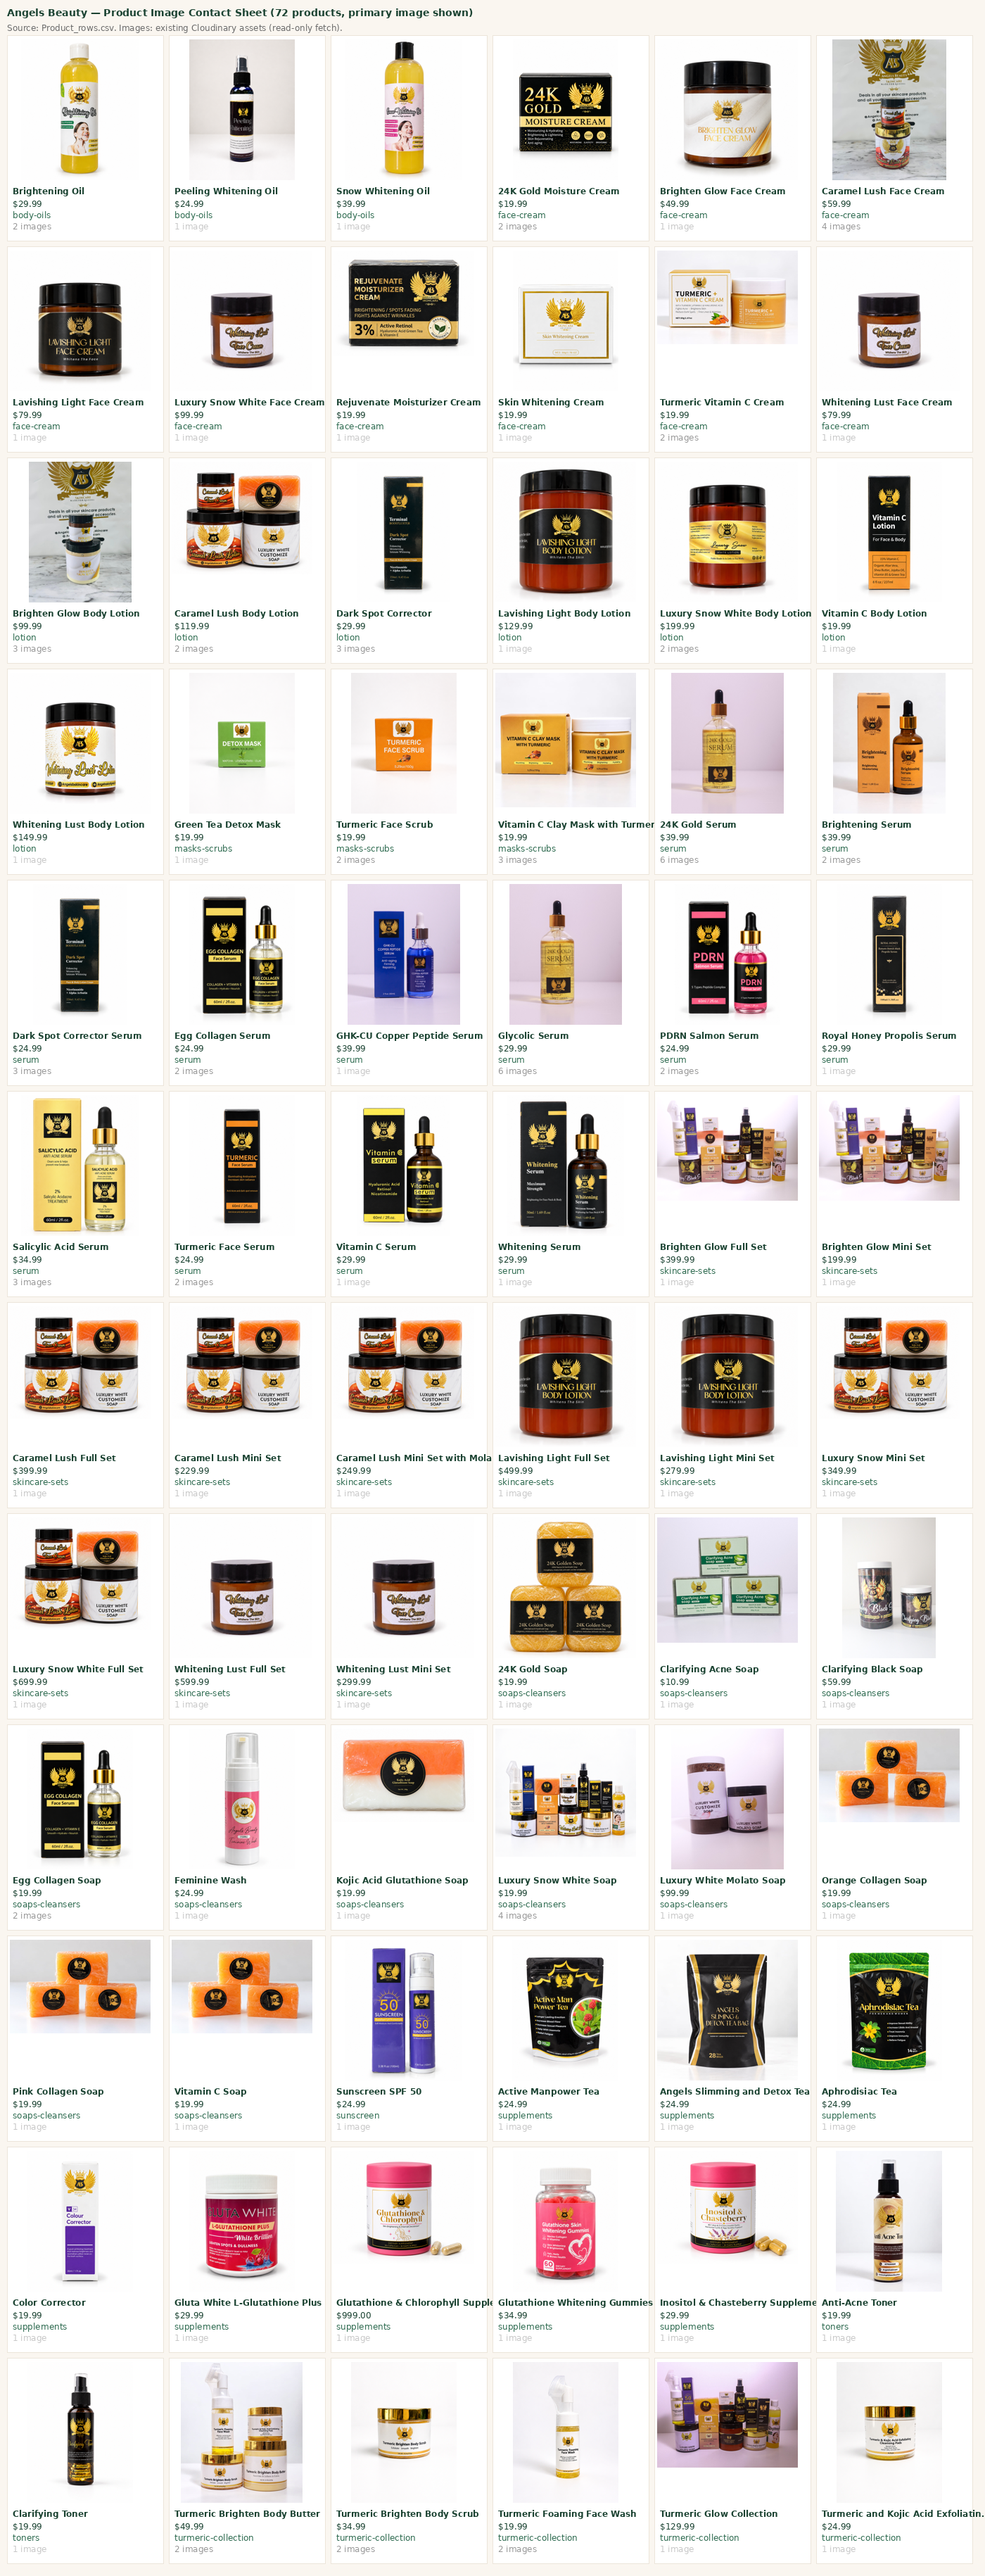
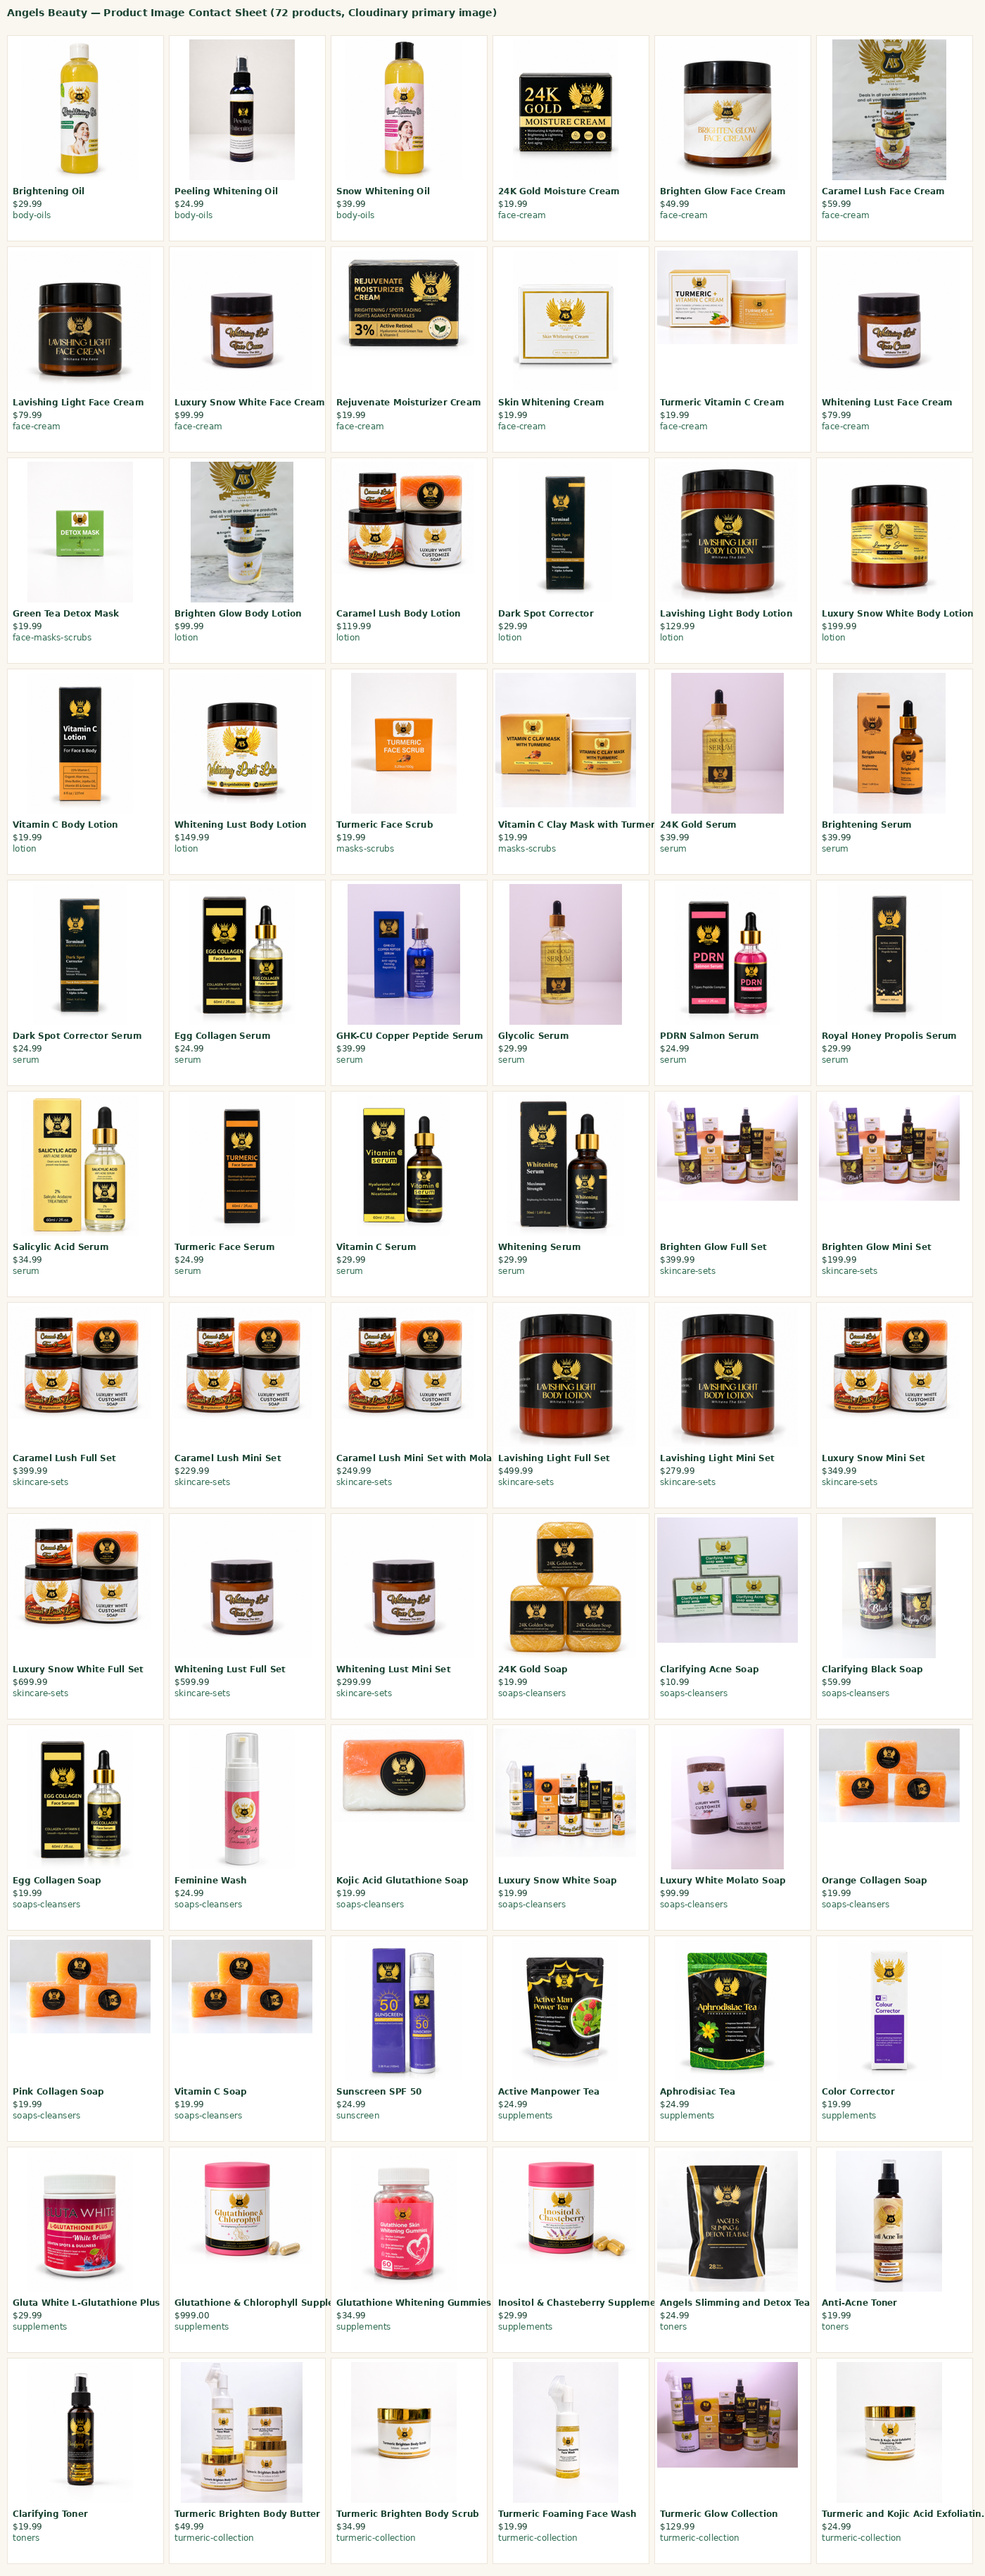
Stage A: Supabase catalog reconciliation (0 mismatches), Cloudinary verification (89/89 reachable), contact sheet; checkout coupon input; admin screenshots

diff --git a/src/app/checkout/page.tsx b/src/app/checkout/page.tsx
@@ -19,6 +19,7 @@ type Form = {
   billingSameAsShipping: boolean;
   billing: { firstName: string; lastName: string; line1: string; line2: string; city: string; state: string; postalCode: string; country: string; phone: string };
   customerNote: string;
+  couponCode: string;
 };
 
 const emptyAddr = { firstName: "", lastName: "", line1: "", line2: "", city: "", state: "", postalCode: "", country: "", phone: "" };
@@ -27,7 +28,7 @@ export default function CheckoutPage() {
   const router = useRouter();
   const { cart } = useCart();
   const [form, setForm] = useState<Form>({
-    email: "", shipping: { ...emptyAddr }, billingSameAsShipping: true, billing: { ...emptyAddr }, customerNote: "",
+    email: "", shipping: { ...emptyAddr }, billingSameAsShipping: true, billing: { ...emptyAddr }, customerNote: "", couponCode: "",
   });
   const [errors, setErrors] = useState<Record<string, string>>({});
   const [loading, setLoading] = useState(false);
@@ -63,7 +64,7 @@ export default function CheckoutPage() {
     if (Object.keys(newErrors).length) { setErrors(newErrors); toast.error("Please correct the highlighted fields."); return; }
 
     setLoading(true);
-    const payload = { ...form, billing: form.billingSameAsShipping ? undefined : form.billing };
+    const payload = { ...form, billing: form.billingSameAsShipping ? undefined : form.billing, couponCode: form.couponCode || undefined };
     const res = await fetch("/api/checkout", {
       method: "POST",
       headers: { "Content-Type": "application/json" },
@@ -171,6 +172,11 @@ export default function CheckoutPage() {
                 </li>
               ))}
             </ul>
+            <div className="mt-4">
+              <Label htmlFor="couponCode">Coupon code (optional)</Label>
+              <Input id="couponCode" value={form.couponCode} onChange={(e) => setForm({ ...form, couponCode: e.target.value })} className="mt-1" placeholder="e.g. SAVE10" />
+              {errors.couponCode && <p className="mt-1 text-xs text-red-600">{errors.couponCode}</p>}
+            </div>
             <dl className="mt-4 space-y-2 border-t border-border pt-4 text-sm">
               <div className="flex justify-between"><dt className="text-muted-foreground">Subtotal</dt><dd className="text-forest">${subtotal.toFixed(2)}</dd></div>
               <div className="flex justify-between"><dt className="text-muted-foreground">Shipping</dt><dd className="text-forest">{shipping === 0 ? "Free" : `$${shipping.toFixed(2)}`}</dd></div>

diff --git a/download/SUPABASE-CATALOG-RECONCILIATION.md b/download/SUPABASE-CATALOG-RECONCILIATION.md
@@ -1,0 +1,43 @@
+# Supabase Catalog Reconciliation Report — Stage A
+
+**Source:** client-provided Supabase Product_rows.csv export (READ-ONLY — no live Supabase connection, no service-role credentials).
+**Compared against:** dev catalog (`src/lib/catalog.ts`).
+**Mode:** READ-ONLY comparison. No production writes, migrations, or modifications.
+
+## Summary
+
+| Metric | Supabase (CSV) | Dev catalog | Match |
+|---|---|---|---|
+| Products | 72 | 72 | ✓ |
+| Category slugs | 12 | 11 | 12 → 11 (intentional merge — see below) |
+| Price mismatches | — | — | 0 |
+| Stock mismatches | — | — | 0 |
+| Image-ref mismatches | — | — | 0 |
+| Name mismatches | — | — | 0 |
+
+## Category reconciliation (12 source → 11 canonical)
+
+The dev catalog has **2 intentional, approved category corrections** (dev only — production Supabase unchanged). Each product preserves its `sourceCategorySlug` for migration tracking:
+
+| Change | Source slug | Canonical slug | Products affected |
+|---|---|---|---|
+| Merge | `face-masks-scrubs` | `masks-scrubs` | Green Tea Detox Mask |
+| Move | `toners` | `supplements` | Angels Slimming and Detox Tea |
+
+Source category counts: {'body-oils': 3, 'face-cream': 9, 'face-masks-scrubs': 1, 'lotion': 7, 'masks-scrubs': 2, 'serum': 12, 'skincare-sets': 11, 'soaps-cleansers': 11, 'sunscreen': 1, 'supplements': 7, 'toners': 3, 'turmeric-collection': 5}
+Dev canonical counts: {'body-oils': 3, 'face-cream': 9, 'lotion': 7, 'masks-scrubs': 3, 'serum': 12, 'skincare-sets': 11, 'soaps-cleansers': 11, 'sunscreen': 1, 'supplements': 8, 'toners': 2, 'turmeric-collection': 5}
+
+## Data integrity
+
+- **Prices:** 0 mismatches — all 72 product prices match the CSV exactly.
+- **Stock:** 0 mismatches — all 72 stock quantities match the CSV exactly.
+- **Image references:** 0 mismatches — all 112 image references (89 unique Cloudinary URLs) match the CSV exactly.
+- **Names/slugs:** 0 mismatches — all 72 names + slugs match.
+
+## Discrepancies requiring your decision
+
+None — all product data (prices, descriptions, stock, slugs, images) is identical between the Supabase CSV export and the dev catalog. The only differences are the 2 approved category corrections (documented above with source-slug preservation).
+
+## Note on live connection
+
+This reconciliation uses the client-provided CSV export as the read-only Supabase source (per the earlier decision not to use service-role credentials). When you approve a live read-only connection (e.g., a read-only Postgres role or anon key with RLS), the same comparison can be re-run against the live tables to confirm no drift since the export.

diff --git a/download/CLOUDINARY-IMAGE-VERIFICATION.md b/download/CLOUDINARY-IMAGE-VERIFICATION.md
@@ -1,0 +1,46 @@
+# Cloudinary Image Verification Report — Stage A
+
+**Mode:** READ-ONLY verification. No uploads, deletes, overwrites, or reassignments.
+**Cloud:** res.cloudinary.com/k7248qtu (existing account — assets preserved, public IDs untouched).
+
+## Asset verification
+
+| Metric | Value |
+|---|---|
+| Unique Cloudinary URLs | 89 |
+| Reachable (HTTP 200) | 89 |
+| Unreachable | 0 |
+| Total image references across 72 products | 112 |
+| Products with ≥1 image | 72 / 72 |
+| Products with exactly 1 image | 49 |
+| Products with 2+ images | 23 |
+
+## Image distribution
+
+| Images per product | 1 | 2 | 3 | 4 | 6 |
+|---|---|---|---|---|---|
+| # products | 49 | 14 | 5 | 2 | 2 |
+
+## Shared images (same URL across products)
+
+16 URLs are shared by more than one product. Notable:
+- **24K Gold Serum & Glycolic Serum** share all 6 identical images (likely duplicate assignment — flagged).
+- **3 Collagen Soaps** (Vitamin C / Pink / Orange) share one image.
+- **5 set products** share one generic image.
+- Same-line sharing (Dark Spot, Lavishing Light, Brighten Glow) — likely intentional.
+
+Full flagged-mismatch comparison: `download/image-comparison-flagged.png`.
+
+## Flagged mismatches (pending your approval — NOT auto-reassigned)
+
+1. **Egg Collagen Soap** — primary image is the Egg Collagen Serum (dropper bottle).
+2. **Pink Collagen Soap** — shows orange soaps (same as Orange Collagen Soap).
+3. **Vitamin C Soap** — shows orange soaps (identical to Orange Collagen Soap).
+4. **Caramel Lush Body Lotion** — multi-product collection shot, not a single lotion.
+5. **24K Gold Serum & Glycolic Serum** — identical 6-image sets.
+
+No Cloudinary assets were modified, deleted, or reassigned. The flagged mismatches remain pending your manual review and per-product approval.
+
+## Contact sheet
+
+`download/product-image-contact-sheet.png` — all 72 products with their primary Cloudinary image.
